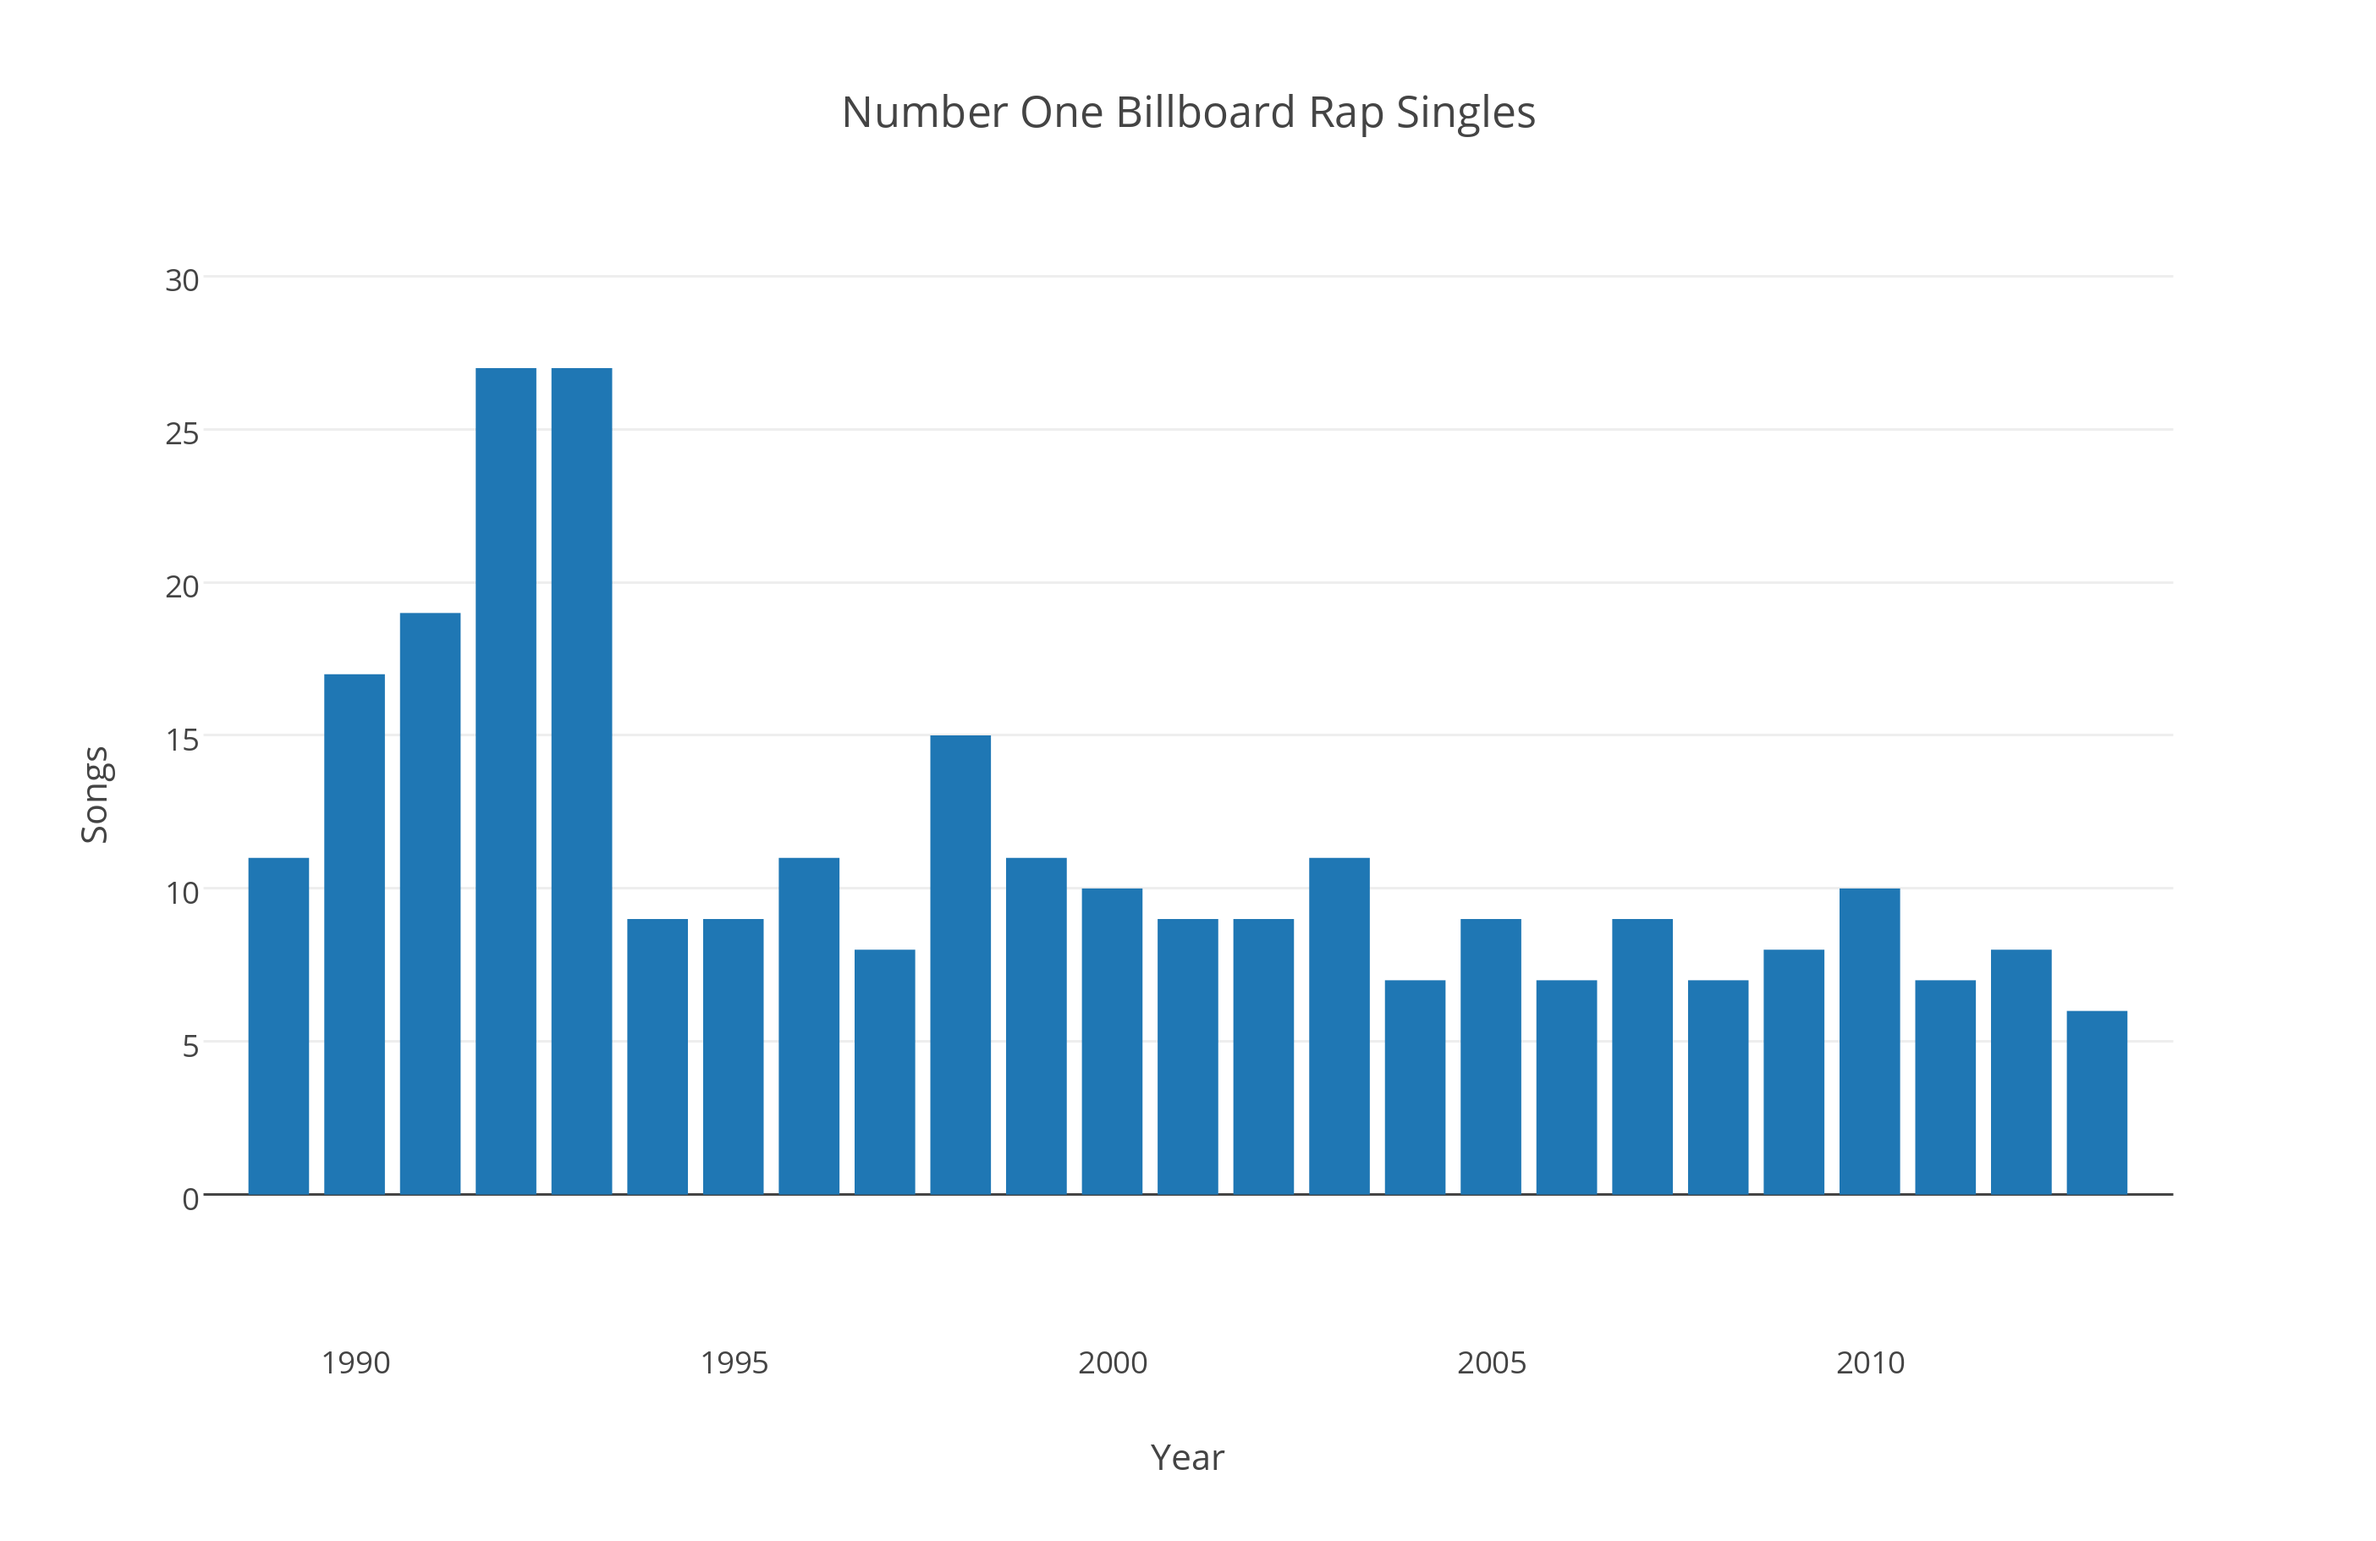
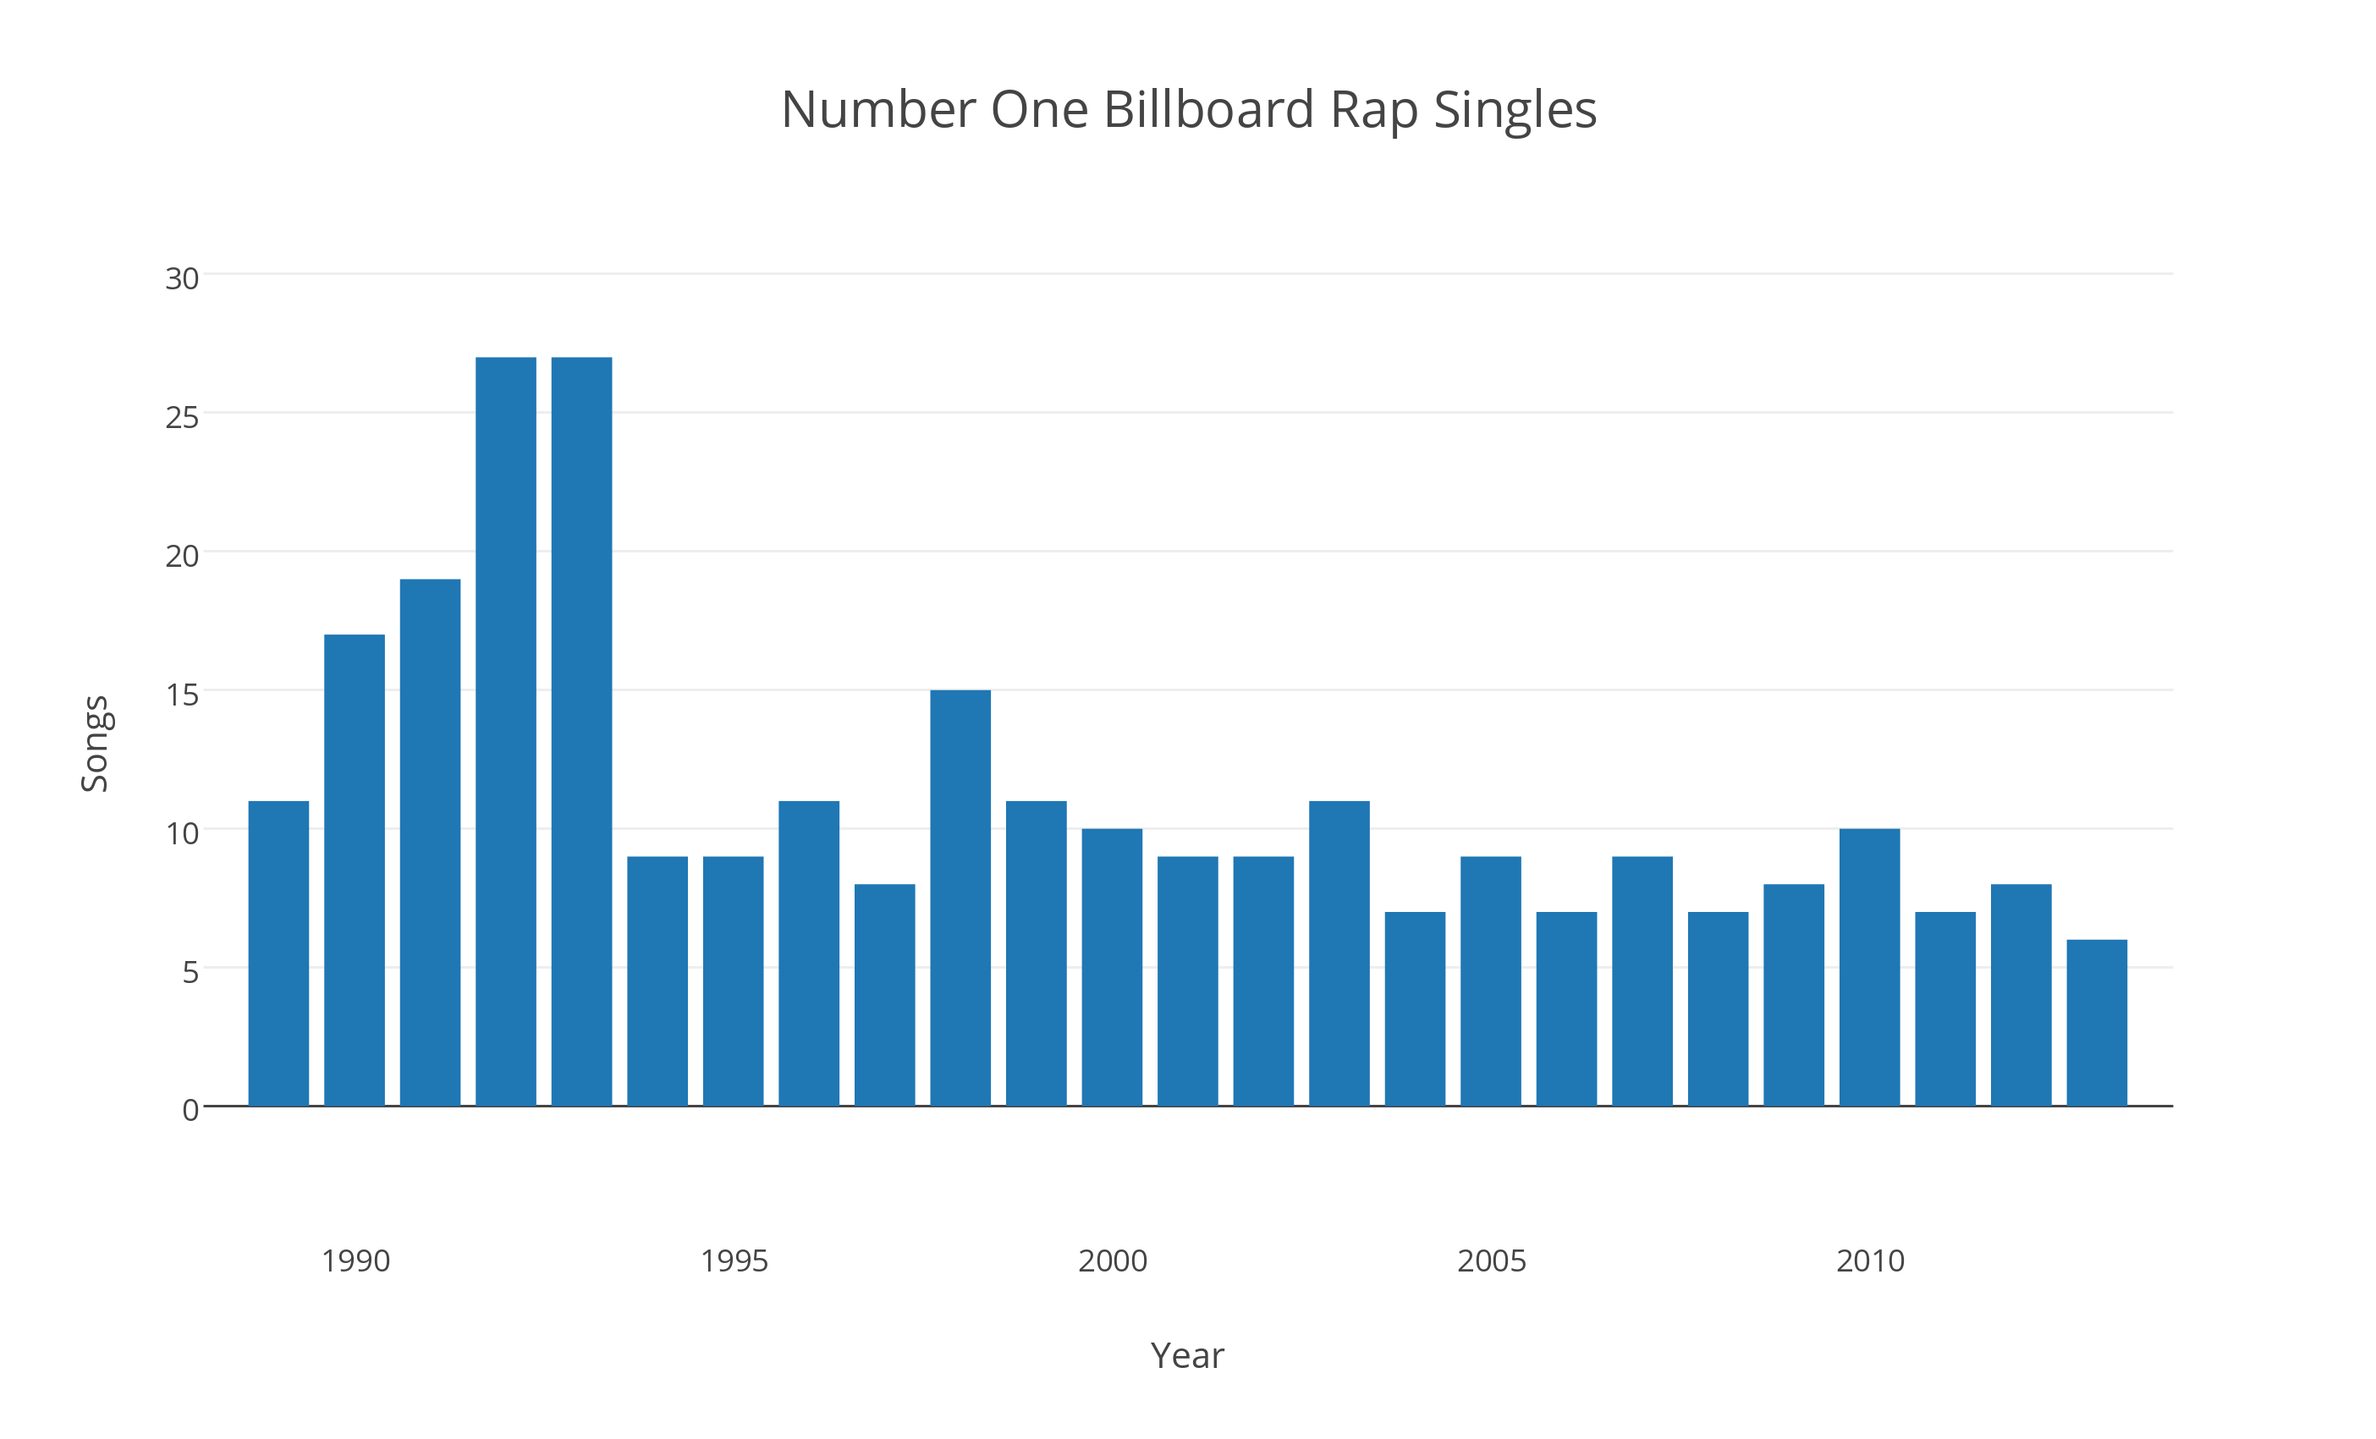
added pngs for blog post 5

diff --git a/_drafts/rap-lyrics.md b/_drafts/rap-lyrics.md
@@ -12,11 +12,9 @@ For a genre of music that is so casually dismissed as unintellectual, rap lyrics
 
 Thanks to historical [Billboard charts](http://en.wikipedia.org/wiki/List_of_Billboard_number-one_rap_singles_of_the_1980s_and_1990s#1989) and [Rap Genius](http://rap.genius.com), I could assemble a corpus of lyrics from every song that made it to the top of the Hip Hop chart since 1989. As always, it took bloody forever to assemble a usable dataset. Below is a distribution for the number of songs that made it to the top each year.
 
+<br>
+![](/assets/post5_chart1.png)
 
-<div>
-    <a href="https://plot.ly/~jayshahtx/97/" target="_blank" title="#1 Billboard Rap Singles" style="display: block; text-align: center;"><img src="https://plot.ly/~jayshahtx/97.png" alt="#1 Billboard Rap Singles" style="max-width: 100%;"  onerror="this.onerror=null;this.src='https://plot.ly/404.png';" /></a>
-    <script data-plotly="jayshahtx:97" src="https://plot.ly/embed.js" async></script>
-</div>
 
 You can quickly see that songs are staying at the top of the charts longer than they did twenty years ago. Let's dive in and find some more interesting patterns.
 
@@ -24,10 +22,9 @@ You can quickly see that songs are staying at the top of the charts longer than 
 
 Rap is pretty notorious for its foul lyrics. One of the first questions I wanted to answer was how profanity has changed over time. It turns out that I'm not the first person to wonder this and some researchers over at CMU had assembled an [exhaustive] corpus of 1300 expletives.
 
-<div>
-    <a href="https://plot.ly/~jayshahtx/85/" target="_blank" title="Expletives Per Songs" style="display: block; text-align: center;"><img src="https://plot.ly/~jayshahtx/85.png" alt="Expletives Per Songs" style="max-width: 100%;width: 936px;"  width="936" onerror="this.onerror=null;this.src='https://plot.ly/404.png';" /></a>
-    <script data-plotly="jayshahtx:85" src="https://plot.ly/embed.js" async></script>
-</div>
+<br>
+![](/assets/post5_chart2.png)
+
 
 It's a fairly noisy, but it looks like rap has gradually increased in profanity over time. I was surprised by this trend, I distinctly recall very vulgar songs from the 90s. Perhaps profanity and vulgarity are not interchangeable. Let's cut the data differently.
 
@@ -35,23 +32,21 @@ It's a fairly noisy, but it looks like rap has gradually increased in profanity 
 
 Let's introduce a metric to guage how often women are referenced. Rappers casually reference girls' names in a sexually explicit or misogynistic way ([Petey Pablo](http://genius.com/Petey-pablo-freek-a-leek-lyrics) I'm looking at you). How often is a woman's name mentioned in a song?
 
-<div>
-    <a href="https://plot.ly/~jayshahtx/120/" target="_blank" title="Expletives, Female Names per Song" style="display: block; text-align: center;"><img src="https://plot.ly/~jayshahtx/120.png" alt="Expletives, Female Names per Song" style="max-width: 100%;width: 936px;"  width="936" onerror="this.onerror=null;this.src='https://plot.ly/404.png';" /></a>
-    <script data-plotly="jayshahtx:120" src="https://plot.ly/embed.js" async></script>
-</div>
+<br>
+![](/assets/post5_chart3.png)
 
 Interestingly, women are referenced much less frequently in today's music than that of 20 years ago while profanity has played a consistent role in rap songs. Could this change be attributed to a difference in gender of top rap artists? After all, female artists probably wouldn't talk about other females like men do...
 
-<div>
-    <a href="https://plot.ly/~jayshahtx/125/" target="_blank" title="Female References per Song, Percent of Hits by Female Artist" style="display: block; text-align: center;"><img src="https://plot.ly/~jayshahtx/125.png" alt="Female References per Song, Percent of Hits by Female Artist" style="max-width: 100%;width: 936px;"  width="936" onerror="this.onerror=null;this.src='https://plot.ly/404.png';" /></a>
-    <script data-plotly="jayshahtx:125" src="https://plot.ly/embed.js" async></script>
-</div>
+<br>
+![](/assets/post5_chart4.png)
 
 I added a chart which includes the percent of top artists that were female each year. Look carefully at the two graphs, can you spot a trend? At first, it appears that the presence of female rappers is inversely related to the use of female names - a pattern that would make sense. But then in years like 2002 and 2005, female artists appear to be postively related to female names.
 
-This is the problem with rap lyrics. It is incredibly difficult to characterize years of complicated language by simple statistics. Before settling with this graph, I had explored the data in numerous ways to see if any patterns emerged. I wanted to include this chart because sometimes trends don't exist in places we expect them to.
+This is the problem with rap lyrics. It is incredibly difficult to characterize years of complicated language by simple statistics. Before settling with this graph, I explored the data in numerous ways to see if any patterns emerged. I wanted to include this chart because sometimes trends don't exist in places we expect them to.
 
-# The rap game's lousiest lover
+# The rap game's lousiest lovers
+
+
 
 
 
